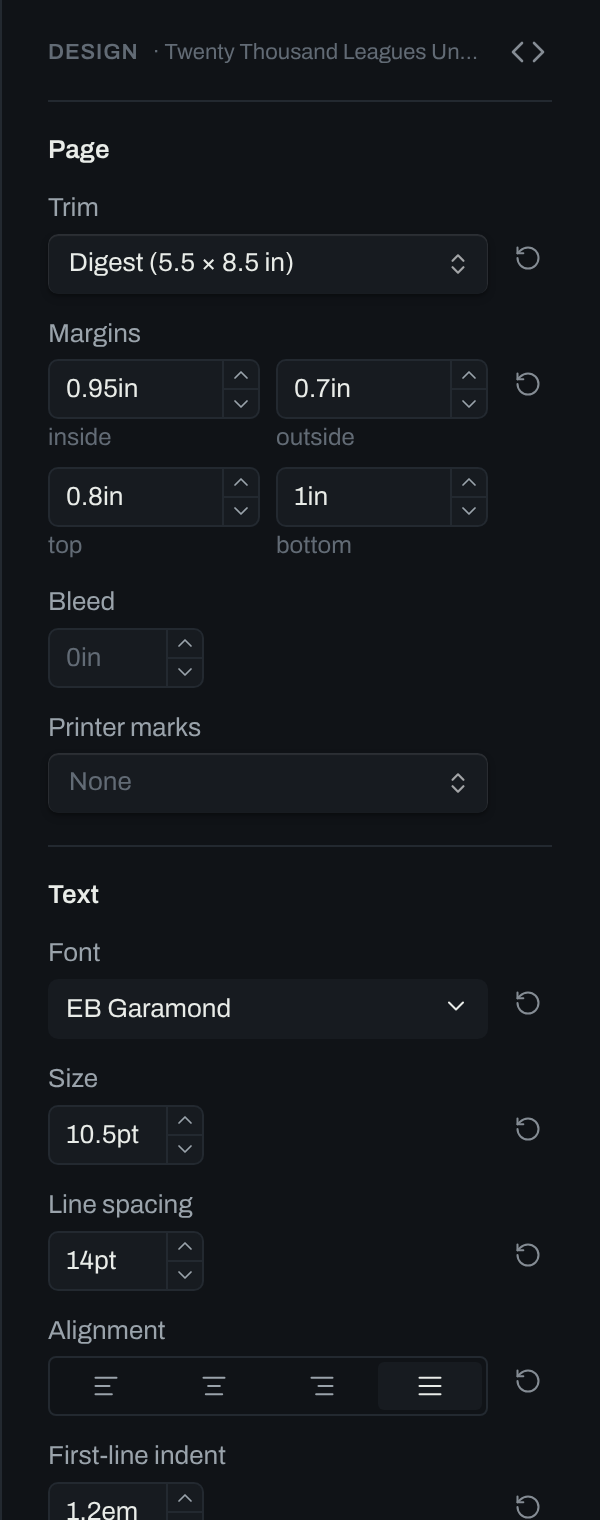
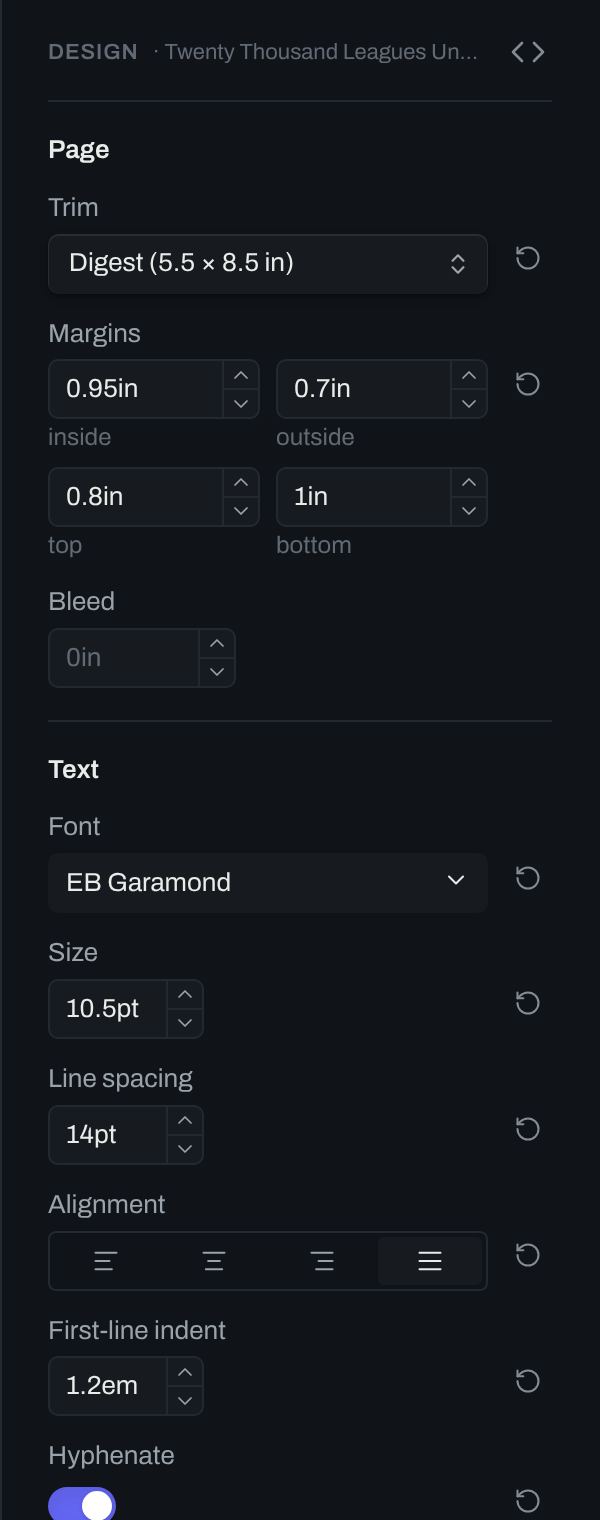
Hold the printer marks until the author can set their room (#156)

diff --git a/design/parts/DesignPanelPhone.html b/design/parts/DesignPanelPhone.html
@@ -22,7 +22,6 @@
 <div class="row"><span class="lab">Trim</span><div class="field is-select" style="flex: 1; min-width: 0"><span>Digest (5.5 × 8.5 in)</span><svg class="icon-xs icon" viewBox="0 0 24 24"><path d="m6 9 6 6 6-6"/></svg></div><div class="reset-slot"><div class="clickable-icon"><svg class="icon-s icon" viewBox="0 0 24 24"><path d="M3 12a9 9 0 1 0 9-9 9.75 9.75 0 0 0-6.74 2.74L3 8"/><path d="M3 3v5h5"/></svg></div></div></div>
 <div class="row" style="align-items: flex-start"><span class="lab dim">Margins</span><div class="dim" style="flex: 1; min-width: 0; display: grid; grid-template-columns: repeat(2, minmax(0, 1fr)); gap: 6px 8px"><div><div class="field" style="justify-content: center">0.95in</div><div class="note" style="margin-top: 2px; text-align: center">inside</div></div><div><div class="field" style="justify-content: center">0.7in</div><div class="note" style="margin-top: 2px; text-align: center">outside</div></div><div><div class="field" style="justify-content: center">0.8in</div><div class="note" style="margin-top: 2px; text-align: center">top</div></div><div><div class="field" style="justify-content: center">1in</div><div class="note" style="margin-top: 2px; text-align: center">bottom</div></div></div><span class="lock"><svg class="icon-xs icon" viewBox="0 0 24 24" style="width: 14px; height: 14px"><rect x="3" y="11" width="18" height="11" rx="2"/><path d="M7 11V7a5 5 0 0 1 10 0v4"/></svg><b>line 3</b></span></div>
 <div class="row"><span class="lab">Bleed</span><div class="numf"><div class="step"><svg class="icon-s icon" viewBox="0 0 24 24"><path d="M5 12h14"/></svg></div><div class="field">0.125in</div><div class="step"><svg class="icon-s icon" viewBox="0 0 24 24"><path d="M5 12h14"/><path d="M12 5v14"/></svg></div></div><div class="reset-slot"><div class="clickable-icon"><svg class="icon-s icon" viewBox="0 0 24 24"><path d="M3 12a9 9 0 1 0 9-9 9.75 9.75 0 0 0-6.74 2.74L3 8"/><path d="M3 3v5h5"/></svg></div></div></div>
-<div class="row"><span class="lab">Printer marks</span><div class="field is-select is-default" style="flex: 1; min-width: 0"><span>None</span><svg class="icon-xs icon" viewBox="0 0 24 24"><path d="m6 9 6 6 6-6"/></svg></div><div class="reset-slot"></div></div>
 </div>
 <div class="panel-grp">
 <div class="panel-grp-h">Text</div>
@@ -56,7 +55,6 @@
 <div class="row"><span class="lab">Trim</span><div class="field is-select" style="flex: 1; min-width: 0"><span>Digest (5.5 × 8.5 in)</span><svg class="icon-xs icon" viewBox="0 0 24 24"><path d="m6 9 6 6 6-6"/></svg></div><div class="reset-slot"><div class="clickable-icon"><svg class="icon-s icon" viewBox="0 0 24 24"><path d="M3 12a9 9 0 1 0 9-9 9.75 9.75 0 0 0-6.74 2.74L3 8"/><path d="M3 3v5h5"/></svg></div></div></div>
 <div class="row" style="align-items: flex-start"><span class="lab dim">Margins</span><div class="dim" style="flex: 1; min-width: 0; display: grid; grid-template-columns: repeat(2, minmax(0, 1fr)); gap: 6px 8px"><div><div class="field" style="justify-content: center">0.95in</div><div class="note" style="margin-top: 2px; text-align: center">inside</div></div><div><div class="field" style="justify-content: center">0.7in</div><div class="note" style="margin-top: 2px; text-align: center">outside</div></div><div><div class="field" style="justify-content: center">0.8in</div><div class="note" style="margin-top: 2px; text-align: center">top</div></div><div><div class="field" style="justify-content: center">1in</div><div class="note" style="margin-top: 2px; text-align: center">bottom</div></div></div><span class="lock"><svg class="icon-xs icon" viewBox="0 0 24 24" style="width: 14px; height: 14px"><rect x="3" y="11" width="18" height="11" rx="2"/><path d="M7 11V7a5 5 0 0 1 10 0v4"/></svg><b>line 3</b></span></div>
 <div class="row"><span class="lab">Bleed</span><div class="numf"><div class="step"><svg class="icon-s icon" viewBox="0 0 24 24"><path d="M5 12h14"/></svg></div><div class="field">0.125in</div><div class="step"><svg class="icon-s icon" viewBox="0 0 24 24"><path d="M5 12h14"/><path d="M12 5v14"/></svg></div></div><div class="reset-slot"><div class="clickable-icon"><svg class="icon-s icon" viewBox="0 0 24 24"><path d="M3 12a9 9 0 1 0 9-9 9.75 9.75 0 0 0-6.74 2.74L3 8"/><path d="M3 3v5h5"/></svg></div></div></div>
-<div class="row"><span class="lab">Printer marks</span><div class="field is-select is-default" style="flex: 1; min-width: 0"><span>None</span><svg class="icon-xs icon" viewBox="0 0 24 24"><path d="m6 9 6 6 6-6"/></svg></div><div class="reset-slot"></div></div>
 </div>
 <div class="panel-grp">
 <div class="panel-grp-h">Text</div>
@@ -86,12 +84,11 @@
 <div class="mobile-navbar"><div class="mobile-navbar-action"><svg class="icon" viewBox="0 0 24 24"><path d="m15 18-6-6 6-6"/></svg></div><div class="mobile-navbar-action is-off"><svg class="icon" viewBox="0 0 24 24"><path d="m9 18 6-6-6-6"/></svg></div><div class="mobile-navbar-action"><svg class="icon" viewBox="0 0 24 24"><path d="M5 12h14"/><path d="M12 5v14"/></svg></div><div class="mobile-navbar-action"><svg class="icon" viewBox="0 0 24 24"><rect x="3" y="3" width="18" height="18" rx="4"/></svg><span class="mobile-navbar-tabs-number">2</span></div><div class="mobile-navbar-action"><svg class="icon" viewBox="0 0 24 24"><path d="M3 6h18"/><path d="M3 12h18"/><path d="M3 18h18"/></svg></div></div>
 <div class="drawer-backdrop"></div>
 <div class="drawer mod-right"><div class="drawer-header" style="padding-left: 24px"><div class="drawer-header-name"><span style="font-weight: 600">Design</span> <span style="color: var(--text-faint); font-weight: 400">· Pride and Prejudice</span></div><div class="drawer-header-icon"><svg class="icon" viewBox="0 0 24 24" aria-label="CSS"><path d="m16 18 6-6-6-6"/><path d="m8 6-6 6 6 6"/></svg></div></div><div class="drawer-body narrow" style="padding: 0 24px">
-<div class="panel-grp" style="margin-top: -156px">
+<div class="panel-grp" style="margin-top: -78px">
 <div class="panel-grp-h">Page</div>
 <div class="row"><span class="lab">Trim</span><div class="field is-select" style="flex: 1; min-width: 0"><span>Digest (5.5 × 8.5 in)</span><svg class="icon-xs icon" viewBox="0 0 24 24"><path d="m6 9 6 6 6-6"/></svg></div><div class="reset-slot"><div class="clickable-icon"><svg class="icon-s icon" viewBox="0 0 24 24"><path d="M3 12a9 9 0 1 0 9-9 9.75 9.75 0 0 0-6.74 2.74L3 8"/><path d="M3 3v5h5"/></svg></div></div></div>
 <div class="row" style="align-items: flex-start"><span class="lab dim">Margins</span><div class="dim" style="flex: 1; min-width: 0; display: grid; grid-template-columns: repeat(2, minmax(0, 1fr)); gap: 6px 8px"><div><div class="field" style="justify-content: center">0.95in</div><div class="note" style="margin-top: 2px; text-align: center">inside</div></div><div><div class="field" style="justify-content: center">0.7in</div><div class="note" style="margin-top: 2px; text-align: center">outside</div></div><div><div class="field" style="justify-content: center">0.8in</div><div class="note" style="margin-top: 2px; text-align: center">top</div></div><div><div class="field" style="justify-content: center">1in</div><div class="note" style="margin-top: 2px; text-align: center">bottom</div></div></div><span class="lock"><svg class="icon-xs icon" viewBox="0 0 24 24" style="width: 14px; height: 14px"><rect x="3" y="11" width="18" height="11" rx="2"/><path d="M7 11V7a5 5 0 0 1 10 0v4"/></svg><b>line 3</b></span></div>
 <div class="row"><span class="lab">Bleed</span><div class="numf"><div class="step"><svg class="icon-s icon" viewBox="0 0 24 24"><path d="M5 12h14"/></svg></div><div class="field">0.125in</div><div class="step"><svg class="icon-s icon" viewBox="0 0 24 24"><path d="M5 12h14"/><path d="M12 5v14"/></svg></div></div><div class="reset-slot"><div class="clickable-icon"><svg class="icon-s icon" viewBox="0 0 24 24"><path d="M3 12a9 9 0 1 0 9-9 9.75 9.75 0 0 0-6.74 2.74L3 8"/><path d="M3 3v5h5"/></svg></div></div></div>
-<div class="row"><span class="lab">Printer marks</span><div class="field is-select is-default" style="flex: 1; min-width: 0"><span>None</span><svg class="icon-xs icon" viewBox="0 0 24 24"><path d="m6 9 6 6 6-6"/></svg></div><div class="reset-slot"></div></div>
 </div>
 <div class="panel-grp">
 <div class="panel-grp-h">Text</div>
@@ -116,12 +113,11 @@
 <div class="mobile-navbar"><div class="mobile-navbar-action"><svg class="icon" viewBox="0 0 24 24"><path d="m15 18-6-6 6-6"/></svg></div><div class="mobile-navbar-action is-off"><svg class="icon" viewBox="0 0 24 24"><path d="m9 18 6-6-6-6"/></svg></div><div class="mobile-navbar-action"><svg class="icon" viewBox="0 0 24 24"><path d="M5 12h14"/><path d="M12 5v14"/></svg></div><div class="mobile-navbar-action"><svg class="icon" viewBox="0 0 24 24"><rect x="3" y="3" width="18" height="18" rx="4"/></svg><span class="mobile-navbar-tabs-number">2</span></div><div class="mobile-navbar-action"><svg class="icon" viewBox="0 0 24 24"><path d="M3 6h18"/><path d="M3 12h18"/><path d="M3 18h18"/></svg></div></div>
 <div class="drawer-backdrop"></div>
 <div class="drawer mod-right"><div class="drawer-header" style="padding-left: 24px"><div class="drawer-header-name"><span style="font-weight: 600">Design</span> <span style="color: var(--text-faint); font-weight: 400">· Pride and Prejudice</span></div><div class="drawer-header-icon"><svg class="icon" viewBox="0 0 24 24" aria-label="CSS"><path d="m16 18 6-6-6-6"/><path d="m8 6-6 6 6 6"/></svg></div></div><div class="drawer-body narrow" style="padding: 0 24px">
-<div class="panel-grp" style="margin-top: -156px">
+<div class="panel-grp" style="margin-top: -78px">
 <div class="panel-grp-h">Page</div>
 <div class="row"><span class="lab">Trim</span><div class="field is-select" style="flex: 1; min-width: 0"><span>Digest (5.5 × 8.5 in)</span><svg class="icon-xs icon" viewBox="0 0 24 24"><path d="m6 9 6 6 6-6"/></svg></div><div class="reset-slot"><div class="clickable-icon"><svg class="icon-s icon" viewBox="0 0 24 24"><path d="M3 12a9 9 0 1 0 9-9 9.75 9.75 0 0 0-6.74 2.74L3 8"/><path d="M3 3v5h5"/></svg></div></div></div>
 <div class="row" style="align-items: flex-start"><span class="lab dim">Margins</span><div class="dim" style="flex: 1; min-width: 0; display: grid; grid-template-columns: repeat(2, minmax(0, 1fr)); gap: 6px 8px"><div><div class="field" style="justify-content: center">0.95in</div><div class="note" style="margin-top: 2px; text-align: center">inside</div></div><div><div class="field" style="justify-content: center">0.7in</div><div class="note" style="margin-top: 2px; text-align: center">outside</div></div><div><div class="field" style="justify-content: center">0.8in</div><div class="note" style="margin-top: 2px; text-align: center">top</div></div><div><div class="field" style="justify-content: center">1in</div><div class="note" style="margin-top: 2px; text-align: center">bottom</div></div></div><span class="lock"><svg class="icon-xs icon" viewBox="0 0 24 24" style="width: 14px; height: 14px"><rect x="3" y="11" width="18" height="11" rx="2"/><path d="M7 11V7a5 5 0 0 1 10 0v4"/></svg><b>line 3</b></span></div>
 <div class="row"><span class="lab">Bleed</span><div class="numf"><div class="step"><svg class="icon-s icon" viewBox="0 0 24 24"><path d="M5 12h14"/></svg></div><div class="field">0.125in</div><div class="step"><svg class="icon-s icon" viewBox="0 0 24 24"><path d="M5 12h14"/><path d="M12 5v14"/></svg></div></div><div class="reset-slot"><div class="clickable-icon"><svg class="icon-s icon" viewBox="0 0 24 24"><path d="M3 12a9 9 0 1 0 9-9 9.75 9.75 0 0 0-6.74 2.74L3 8"/><path d="M3 3v5h5"/></svg></div></div></div>
-<div class="row"><span class="lab">Printer marks</span><div class="field is-select is-default" style="flex: 1; min-width: 0"><span>None</span><svg class="icon-xs icon" viewBox="0 0 24 24"><path d="m6 9 6 6 6-6"/></svg></div><div class="reset-slot"></div></div>
 </div>
 <div class="panel-grp">
 <div class="panel-grp-h">Text</div>

diff --git a/e2e-tests/export.spec.ts b/e2e-tests/export.spec.ts
@@ -399,7 +399,7 @@ function pageBoxes(file: string): { media: number[] | undefined; trim: number[] 
     .map((page) => ({ media: box(page, "MediaBox"), trim: box(page, "TrimBox") }));
 }
 
-test("a book with a bleed exports pages grown by it with the trim box inside, and marks make room only when asked for", async ({
+test("a book with a bleed exports pages grown by it with the trim box inside, and with no room for printer marks", async ({
   book,
   exporting,
   panel,
@@ -413,12 +413,11 @@ test("a book with a bleed exports pages grown by it with the trim box inside, an
 
   const bleed = panel.control("bleed");
   await expect(bleed).toHaveValue("0in");
-  await expect(panel.control("marks")).toHaveValue("none");
   await bleed.fill("0.125in");
   await bleed.press("Enter");
   await expect.poll(async () => vault.read(BOOK)).toContain("bleed: 0.125in");
   await expect.poll(async () => book.painted()).toBeGreaterThan(before);
-  const bled = await book.settled(BOOK);
+  await book.settled(BOOK);
 
   const folder = await mkdtemp(path.join(tmpdir(), "orca-export-"));
   const written = path.join(folder, FILE);
@@ -432,28 +431,11 @@ test("a book with a bleed exports pages grown by it with the trim box inside, an
     const checked = spawnSync("qpdf", ["--check", written], { encoding: "utf8" });
     expect(checked.status, checked.stdout + checked.stderr).toBe(0);
     // The fixture's trim is 5.5 by 8.5 inches, and the bleed is 9 points
-    // on every edge. No marks were asked for, so the page is no larger.
+    // on every edge. The design asks for no marks, so the page is no larger.
     const pages = pageBoxes(written);
     expect(pages.length).toBeGreaterThan(1);
     for (const page of pages) {
       expect(page).toEqual({ media: [0, 0, 414, 630], trim: [9, 9, 405, 621] });
-    }
-    await exporting.close();
-
-    await panel.control("marks").selectOption({ label: "Crop" });
-    await expect.poll(async () => vault.read(BOOK)).toContain("marks: crop");
-    await expect.poll(async () => book.painted()).toBeGreaterThan(bled);
-    await book.settled(BOOK);
-
-    await exporting.open();
-    await exporting.reaches("ready");
-    await exporting.formats("pdf");
-    await exporting.write.click();
-    await exporting.reaches("written");
-    await writeFile(written, await vault.bytes(FILE));
-    // The marks take 24 points past the bleed, and the trim is the size it was.
-    for (const page of pageBoxes(written)) {
-      expect(page).toEqual({ media: [0, 0, 462, 678], trim: [33, 33, 429, 645] });
     }
     await exporting.close();
   } finally {

diff --git a/design/parts/DesignPanelTablet.html b/design/parts/DesignPanelTablet.html
@@ -23,7 +23,6 @@
 <div class="row"><span class="lab">Trim</span><div class="field is-select" style="flex: 1; min-width: 0"><span>Digest (5.5 × 8.5 in)</span><svg class="icon-xs icon" viewBox="0 0 24 24"><path d="m6 9 6 6 6-6"/></svg></div><div class="reset-slot"><div class="clickable-icon"><svg class="icon-s icon" viewBox="0 0 24 24"><path d="M3 12a9 9 0 1 0 9-9 9.75 9.75 0 0 0-6.74 2.74L3 8"/><path d="M3 3v5h5"/></svg></div></div></div>
 <div class="row" style="align-items: flex-start"><span class="lab dim">Margins</span><div class="dim" style="flex: 1; min-width: 0; display: grid; grid-template-columns: repeat(2, minmax(0, 1fr)); gap: 6px 8px"><div><div class="field" style="justify-content: center">0.95in</div><div class="note" style="margin-top: 2px; text-align: center">inside</div></div><div><div class="field" style="justify-content: center">0.7in</div><div class="note" style="margin-top: 2px; text-align: center">outside</div></div><div><div class="field" style="justify-content: center">0.8in</div><div class="note" style="margin-top: 2px; text-align: center">top</div></div><div><div class="field" style="justify-content: center">1in</div><div class="note" style="margin-top: 2px; text-align: center">bottom</div></div></div><span class="lock"><svg class="icon-xs icon" viewBox="0 0 24 24" style="width: 14px; height: 14px"><rect x="3" y="11" width="18" height="11" rx="2"/><path d="M7 11V7a5 5 0 0 1 10 0v4"/></svg><b>line 3</b></span></div>
 <div class="row"><span class="lab">Bleed</span><div class="numf"><div class="step"><svg class="icon-s icon" viewBox="0 0 24 24"><path d="M5 12h14"/></svg></div><div class="field">0.125in</div><div class="step"><svg class="icon-s icon" viewBox="0 0 24 24"><path d="M5 12h14"/><path d="M12 5v14"/></svg></div></div><div class="reset-slot"><div class="clickable-icon"><svg class="icon-s icon" viewBox="0 0 24 24"><path d="M3 12a9 9 0 1 0 9-9 9.75 9.75 0 0 0-6.74 2.74L3 8"/><path d="M3 3v5h5"/></svg></div></div></div>
-<div class="row"><span class="lab">Printer marks</span><div class="field is-select is-default" style="flex: 1; min-width: 0"><span>None</span><svg class="icon-xs icon" viewBox="0 0 24 24"><path d="m6 9 6 6 6-6"/></svg></div><div class="reset-slot"></div></div>
 </div>
 <div class="panel-grp">
 <div class="panel-grp-h">Text</div>

diff --git a/src/style/sheet.test.ts b/src/style/sheet.test.ts
@@ -222,24 +222,13 @@ test("the PDF of a book with a bleed carries a trim box inside its media box, an
   }
 });
 
-test("the printer marks are their own choice: a bleed alone draws none, and marks make room past the bleed", async () => {
-  const bled = await book(designSheets(readDesign({ bleed: "0.125in" }), SETTING));
-  const marked = await book(
-    designSheets(readDesign({ bleed: "0.125in", marks: "crop cross" }), SETTING),
-  );
-  const cropped = await book(designSheets(readDesign({ marks: "crop" }), SETTING));
+test("the design asks for no printer marks, so a bled page has no room past its bleed", async () => {
+  // A `marks` key is not a design key, and a note that carries one sets none.
+  const design = readDesign({ bleed: "0.125in", marks: "crop cross" });
+  assert.deepEqual(design, readDesign({ bleed: "0.125in" }));
 
-  const drawn = (pages: typeof bled.pages) => pages.map((page) => page.items.length);
+  const bled = await book(designSheets(design, SETTING));
   for (const page of bled.pages) assert.equal(page.slug, 0);
-  for (const page of marked.pages) assert.ok(page.slug > 0);
-  for (const [at, count] of drawn(marked.pages).entries()) {
-    assert.ok(count > (drawn(bled.pages)[at] ?? 0), "a marked page draws no marks");
-  }
-  // Marks with no bleed asked for leave the bleed at zero.
-  for (const page of cropped.pages) {
-    assert.equal(page.bleed, 0);
-    assert.ok(page.slug > 0);
-  }
 });
 
 test("a preset a note still names is ignored by the design", () => {

diff --git a/src/style/design.ts b/src/style/design.ts
@@ -73,15 +73,11 @@ export interface Margins {
   bottom?: Length;
 }
 
-/** The marks a printer cuts and registers a sheet by. */
-export type PrinterMarks = "none" | "crop" | "crop cross";
-
 export interface PageDesign {
   trim?: Trim;
   margins: Margins;
   /** The distance past the trim that art prints to, on every edge. */
   bleed?: Length;
-  marks?: PrinterMarks;
 }
 
 export type Alignment = "left" | "center" | "right" | "justify";
@@ -396,15 +392,6 @@ const PAGE: readonly Field[] = [
     write: ({ page }, value) => {
       const length = asLength(value);
       if (length !== undefined) page.bleed = length;
-    },
-  },
-  {
-    key: "marks",
-    property: "marks",
-    read: ({ page }) => page.marks,
-    write: ({ page }, value) => {
-      const marks = asWord(value, PRINTER_MARKS);
-      if (marks !== undefined) page.marks = marks;
     },
   },
 ];
@@ -912,7 +899,6 @@ export function stepCount(count: number, by: 1 | -1, times = 1): number {
 
 const ALIGNMENTS: readonly Alignment[] = ["left", "center", "right", "justify"];
 const HEADING_ALIGNMENTS: readonly HeadingAlignment[] = ["left", "center", "right"];
-const PRINTER_MARKS: readonly PrinterMarks[] = ["none", "crop", "crop cross"];
 const BEGINS: readonly Begins[] = ["right-page", "next-page", "same-page"];
 export const CAPS: readonly Caps[] = ["normal", "small-caps", "all-caps"];
 

diff --git a/design/parts/DesignPanel.html b/design/parts/DesignPanel.html
@@ -35,7 +35,6 @@
       </div>
       <div class="note mod-error">Use one of these units: pt, pc, in, mm, cm, em.</div>
       <div class="row"><span class="lab">Bleed</span><div class="numf"><div class="field" style="width: 76px">0.125in</div><div class="stepper"><div><svg class="icon-xs icon" viewBox="0 0 24 24"><path d="m18 15-6-6-6 6"/></svg></div><div><svg class="icon-xs icon" viewBox="0 0 24 24"><path d="m6 9 6 6 6-6"/></svg></div></div></div><div class="reset-slot"><div class="clickable-icon"><svg class="icon-xs icon" viewBox="0 0 24 24"><path d="M3 12a9 9 0 1 0 9-9 9.75 9.75 0 0 0-6.74 2.74L3 8"/><path d="M3 3v5h5"/></svg></div></div></div>
-      <div class="row"><span class="lab">Printer marks</span><div class="field is-select is-default" style="flex: 1; min-width: 0"><span>None</span><svg class="icon-xs icon" viewBox="0 0 24 24"><path d="m6 9 6 6 6-6"/></svg></div><div class="reset-slot"></div></div>
     </div>
 
     <div class="panel-grp">

diff --git a/src/ui/groups.ts b/src/ui/groups.ts
@@ -99,12 +99,6 @@ const BEGINS: readonly Choice[] = [
   { value: "same-page", label: "Same page" },
 ];
 
-const PRINTER_MARKS: readonly Choice[] = [
-  { value: "none", label: "None" },
-  { value: "crop", label: "Crop" },
-  { value: "crop cross", label: "Crop and registration" },
-];
-
 const DROP_CAPS: readonly Choice[] = [
   { value: "0", label: "None" },
   { value: "2", label: "2 lines" },
@@ -226,7 +220,6 @@ export const GROUPS: readonly Group[] = [
         ],
       },
       { label: "Bleed", of: [{ kind: "length", key: "bleed", page: true }] },
-      { label: "Printer marks", of: [{ kind: "select", key: "marks", choices: PRINTER_MARKS }] },
     ],
   },
   {

diff --git a/src/ui/groups.test.ts b/src/ui/groups.test.ts
@@ -54,7 +54,7 @@ test("the panel offers every group a book designer works in", () => {
   }
 });
 
-test("the Page group offers the trim, the four margins, the bleed and the printer marks, and no switch", () => {
+test("the Page group offers the trim, the four margins and the bleed, and no switch", () => {
   const page = GROUPS.find((group) => group.name === "Page");
   assert.ok(page !== undefined);
 
@@ -65,7 +65,6 @@ test("the Page group offers the trim, the four margins, the bleed and the printe
     "margin-top",
     "margin-bottom",
     "bleed",
-    "marks",
   ]);
   // The side margins always mirror, so the group has nothing to switch.
   assert.deepEqual(

diff --git a/src/style/generated.ts b/src/style/generated.ts
@@ -194,7 +194,6 @@ function pageRules(
   root.push(...set("margin-top", written(margins.top), ["margin-top"]));
   root.push(...set("margin-bottom", written(margins.bottom), ["margin-bottom"]));
   root.push(...set("bleed", written(page.bleed), ["bleed"]));
-  root.push(...set("marks", page.marks, ["marks"]));
   const inside = { value: written(margins.inside), keys: ["margin-inside"] };
   const outside = { value: written(margins.outside), keys: ["margin-outside"] };
   // The side margins mirror, so the inside one prints at the spine on

diff --git a/src/ui/controls.tsx b/src/ui/controls.tsx
@@ -695,7 +695,7 @@ export function Field({
     );
   }
   return (
-    <div className="orca-panel-number">
+    <div className={unit === undefined ? "orca-panel-number" : "orca-panel-number mod-page"}>
       {input}
       <div className="orca-panel-stepper">
         {button(1, "chevron-up")}

diff --git a/src/style/subset.test.css b/src/style/subset.test.css
@@ -11,7 +11,6 @@
   margin-left: 0.95in;
   margin-right: 0.7in;
   bleed: 0.125in;
-  marks: crop cross;
   @top-center { content: counter(page, decimal); }
   @bottom-center { content: counter(page, decimal); }
 }

diff --git a/src/style/design.test.ts b/src/style/design.test.ts
@@ -336,7 +336,6 @@ function whole(): Design {
         bottom: len(1, "in"),
       },
       bleed: len(0.125, "in"),
-      marks: "crop cross",
     },
     body: {
       font: "Alegreya",
